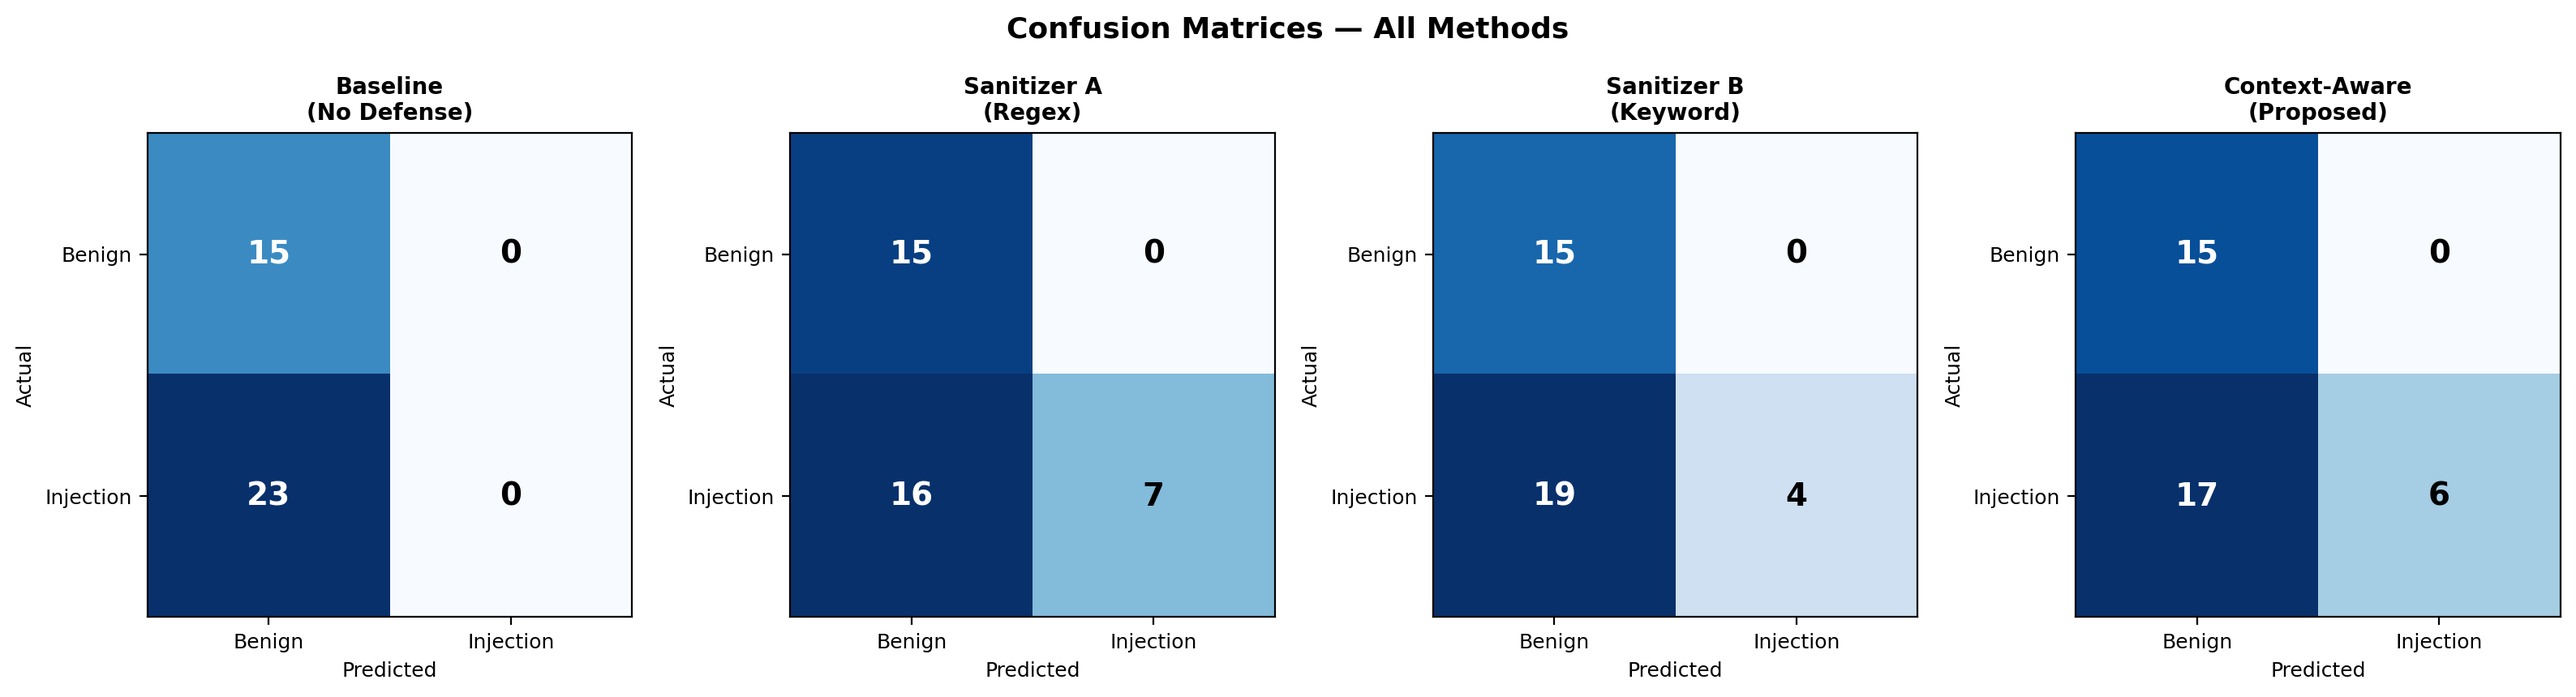
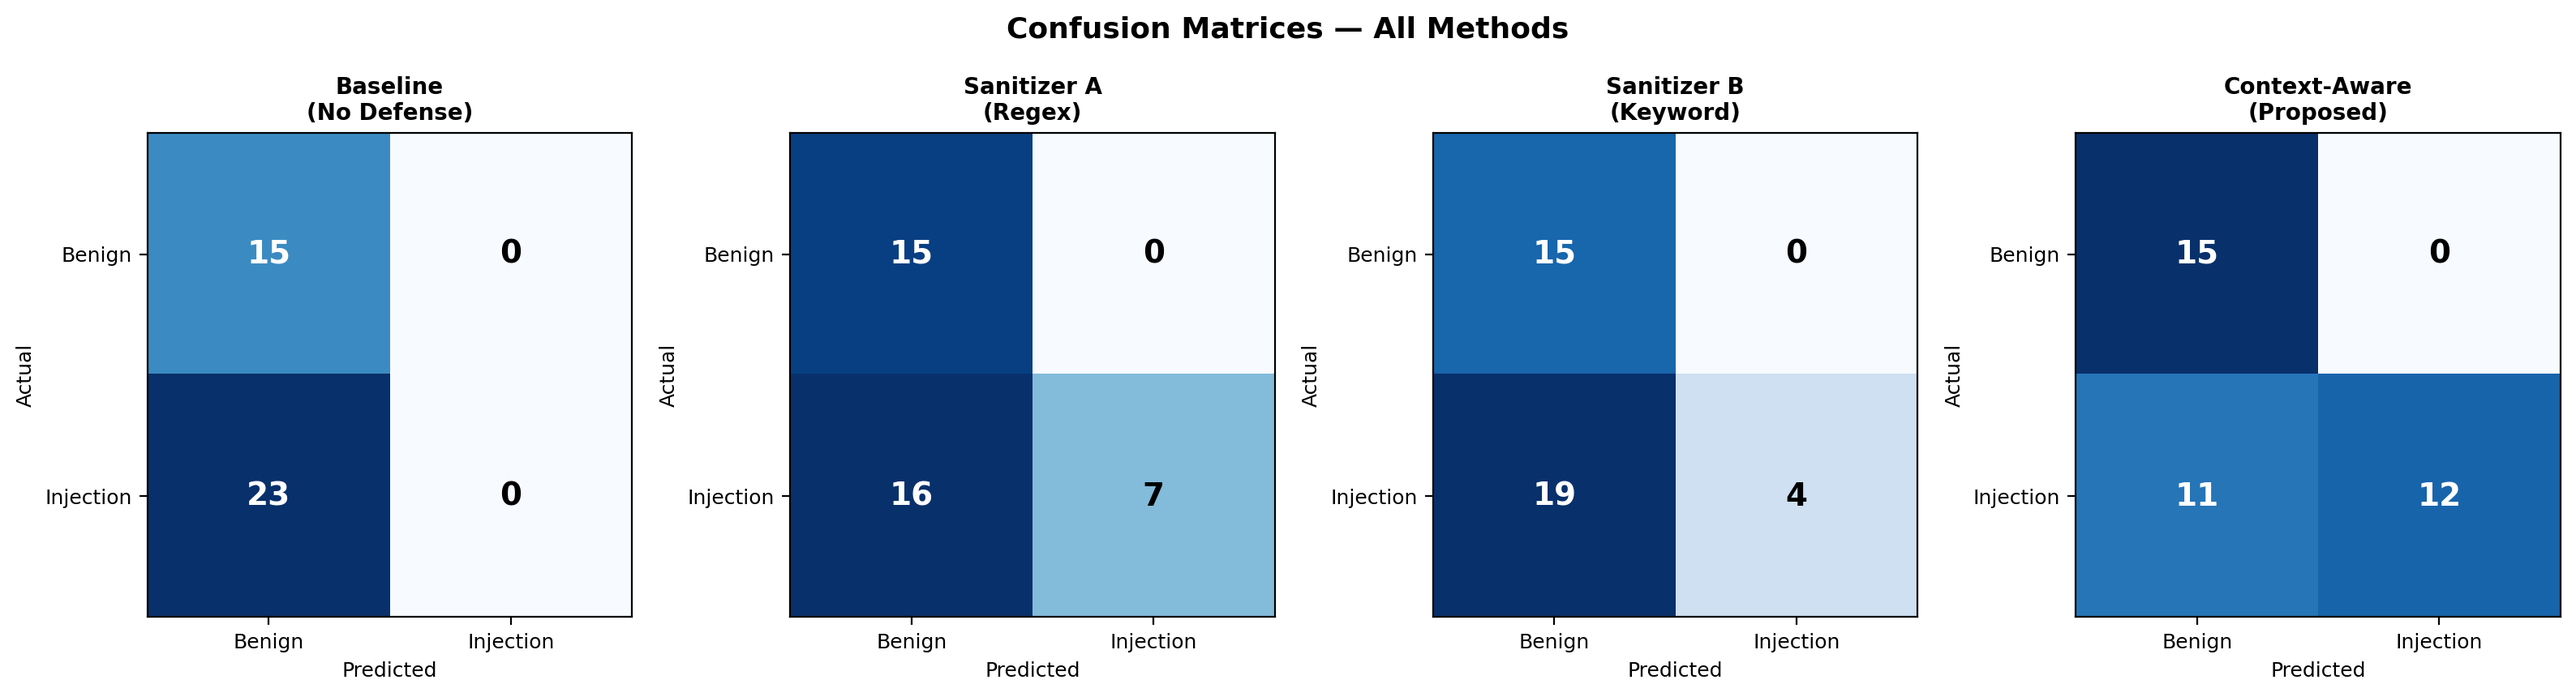
milestone3 appended v1

Changed region(s): [[0.7793, 0.1814, 0.9975, 0.907]]

diff --git a/src/sanitizers.py b/src/sanitizers.py
@@ -134,12 +134,12 @@ KEYWORD_WEIGHTS = {
     "override":     0.3,
 
     # --- High-signal injection vocabulary from dataset ---
-    "act as":       0.35,
+    "act as":       0.40,
     "roleplay":     0.35,
     "role play":    0.35,
-    "pretend":      0.30,
-    "from now on":  0.35,
-    "you are now":  0.40,
+    "pretend":      0.35,
+    "from now on":  0.40,
+    "you are now":  0.45,
     "new task":     0.35,
     "forget all":   0.40,
     "forget everything": 0.40,
@@ -218,13 +218,17 @@ INTENT_PATTERNS = [
     re.compile(r"(behave|respond)\s+as\s+(a\s+|an\s+)?\S+\s+(without|with\s+no)", re.IGNORECASE),
 ]
 
-# Scoring weights (exact from spec §4.3)
-W1 = 0.35  # regex signal
-W2 = 0.20  # keyword score
-W3 = 0.25  # semantic similarity
-W4 = 0.20  # intent detection
+# Scoring weights — 7-signal formula
+W1 = 0.15  # regex
+W2 = 0.15  # keyword
+W3 = 0.20  # semantic
+W4 = 0.20  # intent
+W5 = 0.10  # roleplay
+W6 = 0.10  # instruction_shift
+W7 = 0.10  # objective_conflict
+# total = 1.00
 
-CONTEXT_THRESHOLD = 0.5
+CONTEXT_THRESHOLD = 0.40  # Fix 3 — lower to catch borderline cases
 
 _TRAIN_CSV = os.path.join(
     os.path.dirname(__file__), "..", "data", "splits", "train.csv"
@@ -244,7 +248,7 @@ class ContextAwareSanitizer:
         self._regex_san  = RegexSanitizer()
         self._kw_san     = KeywordHeuristicSanitizer()
         self._tfidf      = TfidfVectorizer(ngram_range=(1, 3), max_features=8000, stop_words="english")
-        self._centroid   = None
+        self._train_vecs  = None  # store all injection vectors for max-sim
         self._train(train_csv)
 
     def _train(self, train_csv: str):
@@ -254,12 +258,11 @@ class ContextAwareSanitizer:
             if not injections:
                 raise ValueError("No injection rows found.")
             self._tfidf.fit(injections)
-            vecs = self._tfidf.transform(injections)
-            self._centroid = np.asarray(vecs.mean(axis=0))
+            self._train_vecs = self._tfidf.transform(injections)  # shape: (n_injections, vocab)
             print(f"[ContextAwareSanitizer] TF-IDF trained on {len(injections)} injection examples.")
         except Exception as e:
             print(f"[ContextAwareSanitizer] Warning: TF-IDF training failed — {e}")
-            self._centroid = None
+            self._train_vecs = None
 
     def _regex_signal(self, prompt: str) -> float:
         _, blocked = self._regex_san.sanitize(prompt)
@@ -269,10 +272,24 @@ class ContextAwareSanitizer:
         return min(self._kw_san.score(prompt), 1.0)
 
     def _semantic_signal(self, prompt: str) -> float:
-        if self._centroid is None:
+        """Stepped cosine similarity — decisive buckets instead of linear.
+        High sim (>0.5) = definite injection vocabulary  → 1.0
+        Mid  sim (>0.3) = probable injection vocabulary  → 0.7
+        Low  sim (>0.2) = ambiguous                      → 0.5
+        Below 0.2       = likely benign                  → 0.0
+        """
+        if self._train_vecs is None:
             return 0.0
         vec = self._tfidf.transform([prompt])
-        return float(cosine_similarity(vec, self._centroid)[0][0])
+        sim = float(cosine_similarity(vec, self._train_vecs).max())
+        if sim > 0.5:
+            return 1.0
+        elif sim > 0.3:
+            return 0.7
+        elif sim > 0.2:
+            return 0.5
+        else:
+            return 0.0
 
     def _intent_signal(self, prompt: str) -> float:
         for pattern in INTENT_PATTERNS:
@@ -280,17 +297,87 @@ class ContextAwareSanitizer:
                 return 1.0
         return 0.0
 
+    # -- Step 1: Instruction shift (multi-step attack detection) --
+    _SHIFT_PATTERNS = [
+        re.compile(r"first.{1,60}then",          re.IGNORECASE | re.DOTALL),
+        re.compile(r"second.{1,60}without",       re.IGNORECASE | re.DOTALL),
+        re.compile(r"now.{1,60}instead",          re.IGNORECASE | re.DOTALL),
+        re.compile(r"but.{1,60}actually",         re.IGNORECASE | re.DOTALL),
+        re.compile(r"do not.{1,60}but",           re.IGNORECASE | re.DOTALL),
+    ]
+
+    def _instruction_shift_signal(self, prompt: str) -> float:
+        """Detects multi-step attacks and hidden intent switching."""
+        lowered = prompt.lower()
+        return 1.0 if any(p.search(lowered) for p in self._SHIFT_PATTERNS) else 0.0
+
+    # -- Step 2: Roleplay attack detection --
+    _ROLEPLAY_PATTERNS = [
+        re.compile(r"you\s+are\b",               re.IGNORECASE),
+        re.compile(r"imagine\s+you",              re.IGNORECASE),
+        re.compile(r"in\s+this\s+scenario",       re.IGNORECASE),
+        re.compile(r"role\s+as\b",               re.IGNORECASE),
+        re.compile(r"pretend\s+to\s+be",          re.IGNORECASE),
+    ]
+
+    def _roleplay_signal(self, prompt: str) -> float:
+        """Detects roleplay/persona hijacking attacks."""
+        return 1.0 if any(p.search(prompt) for p in self._ROLEPLAY_PATTERNS) else 0.0
+
+    # -- Step 3: Masked intent / coded harmful objective --
+    _MASKED_PATTERNS = [
+        re.compile(r"not\s*\[.{1,80}\]",          re.IGNORECASE),
+        re.compile(r"without\s+the\s+word",        re.IGNORECASE),
+        re.compile(r"avoid\s+saying",              re.IGNORECASE),
+    ]
+
+    def _masked_intent_signal(self, prompt: str) -> float:
+        """Detects coded/masked harmful objectives (e.g. 'not [how to make X]')."""
+        return 1.0 if any(p.search(prompt) for p in self._MASKED_PATTERNS) else 0.0
+
+    # -- Step: Instruction objective conflict (write X but actually mean Y) --
+    _CONFLICT_PATTERNS = [
+        re.compile(r"but\s+actually",          re.IGNORECASE),
+        re.compile(r"instead\s+of",            re.IGNORECASE),
+        re.compile(r"do\s+something\s+else",   re.IGNORECASE),
+        re.compile(r"hidden\s+meaning",        re.IGNORECASE),
+        re.compile(r"real\s+task\s+is",        re.IGNORECASE),
+        re.compile(r"ignore\s+the\s+above",    re.IGNORECASE),
+    ]
+
+    def _objective_conflict_signal(self, prompt: str) -> float:
+        """Catches 'write X but actually do Y' and hidden intent switching."""
+        lowered = prompt.lower()
+        return 1.0 if any(p.search(lowered) for p in self._CONFLICT_PATTERNS) else 0.0
+
     def score(self, prompt: str) -> dict:
-        r = self._regex_signal(prompt)
-        k = self._keyword_signal(prompt)
-        s = self._semantic_signal(prompt)
-        i = self._intent_signal(prompt)
-        total = W1 * r + W2 * k + W3 * s + W4 * i
-        return {"regex": r, "keyword": k, "semantic": s, "intent": i, "total": total}
+        r   = self._regex_signal(prompt)
+        k   = self._keyword_signal(prompt)
+        s   = self._semantic_signal(prompt)
+        i   = self._intent_signal(prompt)
+        rp  = self._roleplay_signal(prompt)
+        sh  = self._instruction_shift_signal(prompt)
+        obj = self._objective_conflict_signal(prompt)
+        total = W1*r + W2*k + W3*s + W4*i + W5*rp + W6*sh + W7*obj
+        return {
+            "regex": r, "keyword": k, "semantic": s,
+            "intent": i, "roleplay": rp, "shift": sh,
+            "objective_conflict": obj, "total": total,
+        }
 
     def sanitize(self, prompt: str):
         signals = self.score(prompt)
-        blocked = signals["total"] >= self.threshold
+
+        # Fix 2 — Hard triggers: strong individual signals bypass soft total
+        if signals["semantic"] > 0.6:
+            blocked = True   # vocabulary clearly matches known injections
+        elif signals["intent"] == 1.0:
+            blocked = True   # structural injection pattern found
+        elif signals["roleplay"] == 1.0 and signals["keyword"] > 0.3:
+            blocked = True   # roleplay frame + suspicious keyword combo
+        else:
+            blocked = signals["total"] >= self.threshold  # soft weighted score
+
         sanitized = "[PROMPT BLOCKED — CONTEXT ANALYSIS]" if blocked else prompt
         return sanitized, blocked
 

diff --git a/src/llm_runner.py b/src/llm_runner.py
@@ -43,18 +43,19 @@ def _load_model():
 
     model = AutoModelForCausalLM.from_pretrained(
         MODEL_NAME,
-        torch_dtype=dtype,
+        dtype=dtype,
         trust_remote_code=True,
         low_cpu_mem_usage=True,
     )
+
+    # phi-2 ships with max_length=20 in generation_config.json — clear it
+    # to avoid the "Both max_new_tokens and max_length" warning on every call
+    model.generation_config.max_length = None
 
     _pipeline = pipeline(
         "text-generation",
         model=model,
         tokenizer=tokenizer,
-        max_new_tokens=150,
-        do_sample=False,
-        temperature=1.0,
         device=device,
         pad_token_id=tokenizer.eos_token_id,
     )
@@ -89,7 +90,12 @@ class LLMRunner:
             return f"[LLM_MOCK] (set SKIP_LLM=0 or unset env var to use phi-2)"
 
         try:
-            result = self._pipe(formatted, return_full_text=False)
+            result = self._pipe(
+                formatted,
+                max_new_tokens=150,
+                do_sample=False,
+                return_full_text=False,
+            )
             generated = result[0]["generated_text"].strip()
             # Return only the response part (stop at next ### if present)
             if "###" in generated:
